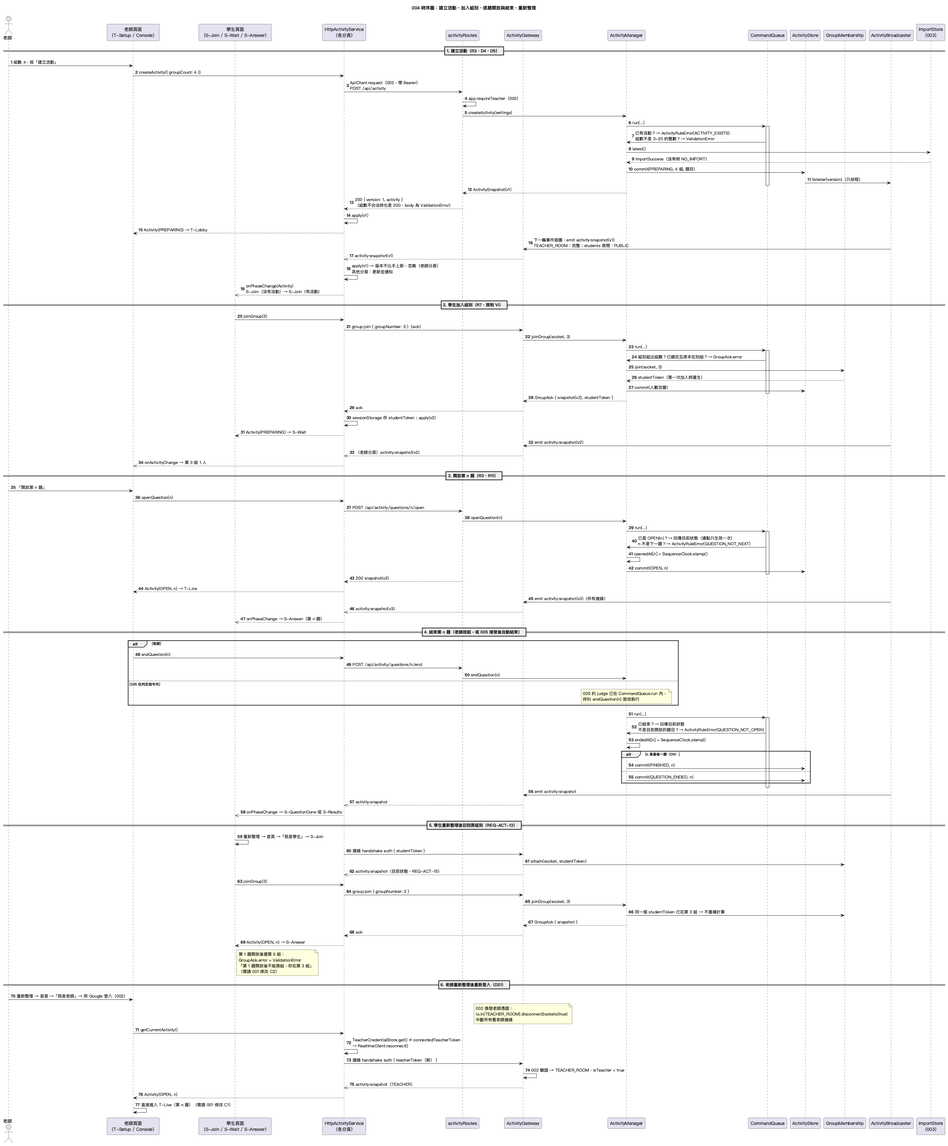
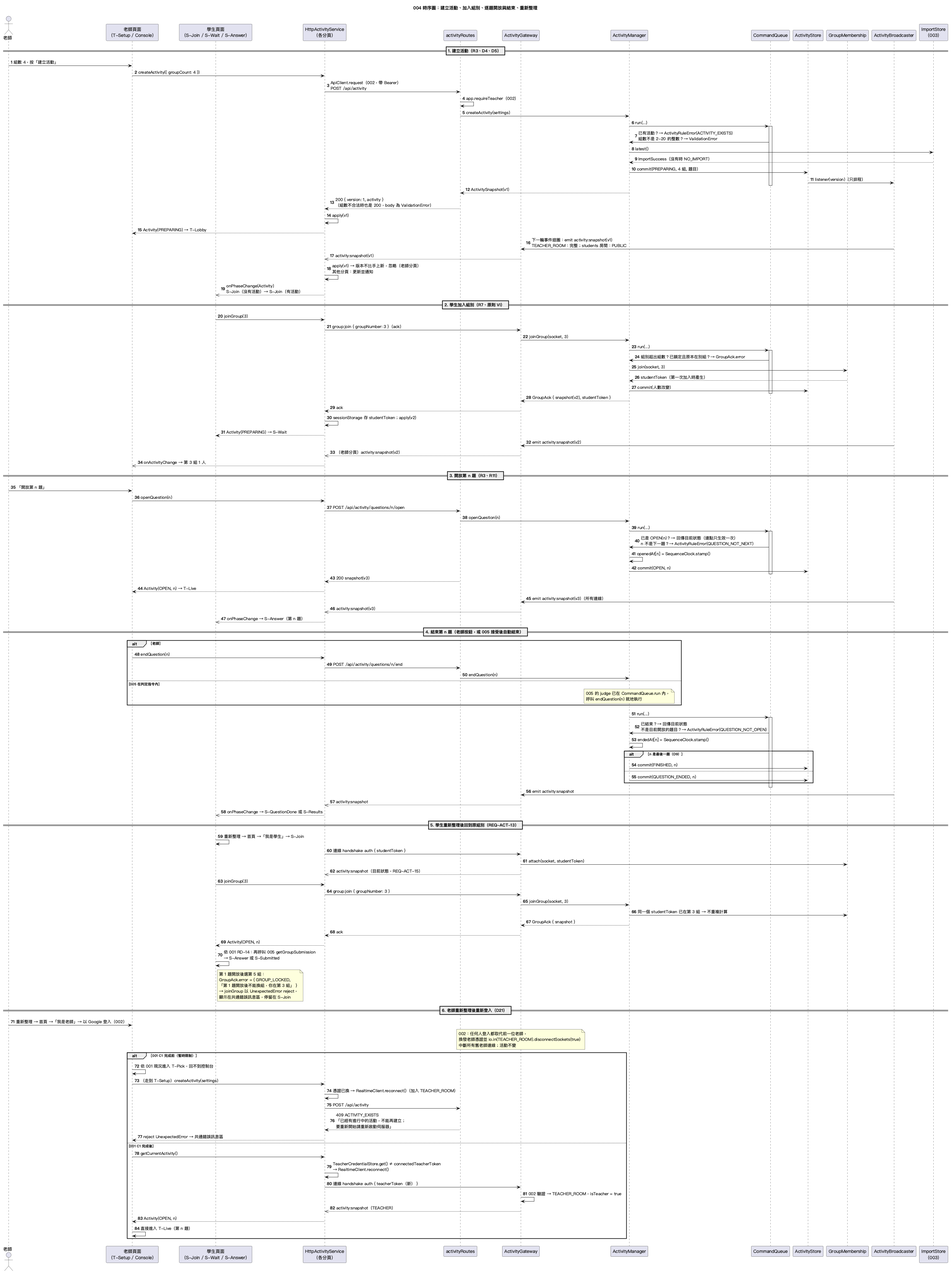
spec(004): 依 spec 修改同步設計、任務與圖表
spec 配合 001 最終版修改後，plan、research、data-model、contracts、quickstart、tasks 與三張圖也要跟著改，否則實作會照舊的介面做。重跑 analyze 沒有 CRITICAL、HIGH、MEDIUM。

diff --git a/specs/004-buzzer-session/analyze-report.md b/specs/004-buzzer-session/analyze-report.md
@@ -2,7 +2,7 @@
 
 **Date**: 2026-11-21 | **Artifacts**: `spec.md`、`plan.md`、`tasks.md`（另參考 `research.md`、`data-model.md`、`contracts/`、`diagrams/004-*.puml`、constitution 1.0.0）
 
-分析跑了三次。第 1 次找到的 CRITICAL 與 MEDIUM 已修正；第 2 次只剩 LOW。之後依主對話比對 002 交界的結果修改（見「第 3 次」），重跑後仍只有 LOW。
+分析跑了四次。第 1 次找到的 CRITICAL 與 MEDIUM 已修正；第 2 次只剩 LOW。之後依主對話比對 002 交界的結果修改（第 3 次），再配合 001 最終版（PR #10）修改（第 4 次），重跑後都只有 LOW。
 
 ## 第 1 次分析（已修正）
 
@@ -19,7 +19,7 @@
 
 | ID | Category | Severity | Location(s) | Summary | Recommendation |
 | --- | --- | --- | --- | --- | --- |
-| L1 | Dependency | LOW | tasks.md「依賴 001 的修改」；T028、T031、T034、T044、T050 | AC-01、AC-02、AC-12 的頁面呈現、AC-20 的學生頁面、AC-26、AC-27 需要 001 先完成 C1–C5；在那之前這些 e2e 以 `test.skip` 標記 | 已在 tasks 列出對應；請 001 負責人排入。伺服器與服務層的測試不受影響 |
+| L1 | Dependency | LOW | tasks.md「依賴 001 的修改」；T050 | （第 4 次更新）只剩 AC-26 需要 001 完成 C1（D21）；在那之前該 e2e 以 `test.skip` 標記，暫時限制（AC-32）現在就測 | 已在 PR #10 留言，001 實作時處理 |
 | L2 | Coverage | LOW | spec.md Edge Cases「複製分頁」 | 沒有專門的自動化測試 | 行為由 `GroupMembership` 的「同一 token 不重複計算」（T011）涵蓋，不另加測試 |
 | L3 | Organization | LOW | tasks.md T043 | logging 是跨 Story 的工作，放在 US3 | 放在 US3 是因為 US3 完成時所有事件都已存在；不影響執行順序 |
 | L4 | Organization | LOW | tasks.md T028 | 一個任務同時包含實作與 e2e 情境 | 兩者都很小且同屬 US1；可在實作時拆開 |
@@ -49,21 +49,46 @@
 
 **Unmapped Tasks:** 無。Setup 與 Foundational 的任務（T001–T022）對應到 REQ-ACT-12、14、15、17、18、19、20（見 tasks 追溯表）；T051–T053 對應原則 I、VIII。
 
+## 第 4 次分析（配合 001 最終版）
+
+依 `specs/001-ui-prototype/`（PR #10）與 `docs/feature-split.md` 最新版，以及使用者 2026-11-22 的決定，比對 spec、plan、research、data-model、contracts、quickstart、tasks 與三張圖。
+
+比對時發現、並已在本輪修正的不一致：
+
+| ID | Category | 原本的嚴重度 | Location(s) | 不一致 | 處理 |
+| --- | --- | --- | --- | --- | --- |
+| X1 | Inconsistency（與 001） | HIGH | spec「需請 001 修改」C2；data-model；contracts/activity-service.md；class 圖 | 004 假設 `joinGroup` 回傳 `Promise<Activity \| ValidationError>`，001 最終版仍是 `Promise<Activity>` | 改為以 `UnexpectedError(message)` reject，顯示在共通錯誤訊息區；`GroupAck.error` 改為 `{ code, message }`（`NO_ACTIVITY`、`NO_SUCH_GROUP`、`GROUP_LOCKED`）；AC-12、REQ-ACT-11、T031、T034、T044 同步；C2 刪除 |
+| X2 | Inconsistency（與 001） | MEDIUM | spec C5；tasks T044 | 結束最後一題直接 `FINISHED`、S-Join 依階段切換，001 最終版已完成，004 仍列為請 001 修改 | C5 刪除；AC-13、AC-14 改為依 001 RD-14（`OPEN` 時頁面再呼叫 005 的 `getGroupSubmission`）；時序圖第 5 段同步 |
+| X3 | Inconsistency（與 001） | MEDIUM | spec C3、C4；data-model `activityRules` | 組數範圍、預設值與說明文字，001 spec 已明文交給 004 定義，不需要請 001 修改 | C3、C4 刪除，改為「001 實作時照 004 的規則」；REQ-ACT-02、「說明文字」一節、Clarifications 同步 |
+| X4 | Inconsistency（與使用者決定） | HIGH | spec REQ-ACT-21、US4、SC-005；tasks T050 | D21 的 001 修改尚未完成，004 的 AC-26 現在無法成立，也沒有寫明修改前的行為 | 改為暫時限制：活動繼續；老師重新登入後進入 T-Pick；再建立活動回 `ACTIVITY_EXISTS`「已經有進行中的活動，不能再建立；要重新開始請重新啟動伺服器」（新增 AC-32）；AC-26 標明「001 完成 C1 後」；時序圖第 6 段分成兩個 alt |
+| X5 | Inconsistency（與 001、002） | MEDIUM | spec Assumptions、REQ-ACT-09；research RA-07；contracts/socket-events.md | 老師規則仍寫「同一個帳號重新登入」；001 最終版與 002 為「以 Google 登入的人就是老師，任何人登入都取代前一位老師」 | 全部改寫；被取代的老師分頁退回一般連線（RA-07 原本的機制已涵蓋） |
+| X6 | Inconsistency（與 001） | MEDIUM | research RA-09、RA-07；contracts/activity-service.md | 001 最終版的 T-Lobby 不呼叫 `getCurrentActivity`，004 原本以「登入後第一個呼叫是 `getCurrentActivity`」保證老師版快照 | 改為：老師登入後第一個活動指令是 `createActivity`，執行前已依憑證重新連線；`getCurrentActivity` 的呼叫者只寫 Main、S-Join |
+| X7 | Coverage（模擬橋接） | MEDIUM | research RA-14；tasks T042 | 001 最終版的模擬 `judge(ACCEPTED)` 只結束模擬的題目，接上 004 後伺服器題目仍開著，老師無法開放下一題 | 組合根包一層 `judge`：結果不是 `OPEN` 時呼叫真正的 `endQuestion(q)`，以其回傳的活動取代 `JudgeOutcome.activity` |
+
+重跑結果（第 4 次）：
+
+| ID | Category | Severity | Location(s) | Summary | Recommendation |
+| --- | --- | --- | --- | --- | --- |
+| L8 | Dependency | LOW | spec REQ-ACT-02、AC-01、AC-02；tasks T028 | 組數預設 6 與「−」「+」不可用由 001 實作 T-Setup 時照 004 的常數完成；001 spec 已交給 004，但 001 tasks T064 沒有寫出要引用 `activityRules` | 不改 001；004 的 e2e（T028）會在 001 實作後驗證，結果不符時回報 001 |
+| L9 | UX | LOW | spec REQ-ACT-21、AC-32 | D21 暫時限制期間，老師重新整理後沒有人能控制這場活動，只能重新啟動伺服器 | 使用者 2026-11-22 已接受為暫時限制；001 完成 C1 後解除 |
+
+其餘 L2–L7 不變。檢查項目：所有檔案中已沒有「需請 001 修改」C2–C5、`Promise<Activity | ValidationError>` 形式的 `joinGroup`、「同一個帳號重新登入」的老師規則、T-Lobby 呼叫 `getCurrentActivity` 的描述；`data-model.md` 與 `diagrams/004-class.puml`（`joinGroup` 簽章、`GroupAck.error`）一致；三張 PNG 已重新產生且未被截掉（最大寬度 3017 px）。
+
 ## Coverage Summary
 
 | Requirement Key | Has Task? | Task IDs | Notes |
 | --- | --- | --- | --- |
 | REQ-ACT-01 | Yes | T023、T024、T026、T027 | |
-| REQ-ACT-02 | Yes | T002、T023、T024、T026、T028 | 頁面部分依賴 001 C3 |
+| REQ-ACT-02 | Yes | T002、T023、T024、T026、T028 | 頁面部分由 001 實作時照 004 的常數（L8） |
 | REQ-ACT-03 | Yes | T023、T026 | |
 | REQ-ACT-04 | Yes | T023、T026 | |
 | REQ-ACT-05 | Yes | T035–T037、T039、T040 | |
-| REQ-ACT-06 | Yes | T035、T036、T039、T044 | 學生頁面依賴 001 C5 |
+| REQ-ACT-06 | Yes | T035、T036、T039、T044 | 學生頁面切換 001 最終版已完成 |
 | REQ-ACT-07 | Yes | T035、T039 | |
 | REQ-ACT-08 | Yes | T005、T006、T018、T035、T039 | |
 | REQ-ACT-09 | Yes | T024、T027、T037、T040 | |
 | REQ-ACT-10 | Yes | T011、T012、T029、T030、T032、T033 | |
-| REQ-ACT-11 | Yes | T029–T034 | `ValidationError` 依賴 001 C2 |
+| REQ-ACT-11 | Yes | T029–T034 | 被拒絕以 `UnexpectedError` 顯示（第 4 次 X1） |
 | REQ-ACT-12 | Yes | T011、T012、T017、T018、T030 | |
 | REQ-ACT-13 | Yes | T011、T012、T020、T030、T034、T044 | |
 | REQ-ACT-14 | Yes | T009、T010、T016、T019、T021、T022、T038 | |
@@ -73,22 +98,22 @@
 | REQ-ACT-18 | Yes | T007、T008、T035、T039 | AC-30 |
 | REQ-ACT-19 | Yes | T013、T014、T016、T017、T030、T044 | |
 | REQ-ACT-20 | Yes | T018、T019、T020、T044 | AC-31 |
-| REQ-ACT-21 | Yes | T048–T050 | 頁面依賴 001 C1 |
+| REQ-ACT-21 | Yes | T023、T048–T050 | AC-32（暫時限制）現在測；AC-26 依賴 001 C1 |
 | REQ-ACT-NFR-01 | Yes | T016、T045–T047 | |
 | REQ-ACT-NFR-02 | Yes | T032、T045–T047 | |
 | SC-001～SC-006 | Yes | T024、T030、T037、T044–T047、T050、T051 | |
 
 ## Metrics
 
-- Total Requirements：23（REQ-ACT-01～21、NFR-01～02）；Acceptance Criteria：31（AC-01～31）；Success Criteria：6
+- Total Requirements：23（REQ-ACT-01～21、NFR-01～02）；Acceptance Criteria：32（AC-01～32）；Success Criteria：6
 - Total Tasks：53
 - Coverage：100%（23 / 23 條需求至少有一個任務與一個測試任務）
 - Ambiguity Count：0（第 1 次 1 個，已修正）
 - Duplication Count：0
 - Critical Issues Count：0（第 1 次 1 個，已修正）
-- 各嚴重度（第 3 次）：CRITICAL 0、HIGH 0、MEDIUM 0、LOW 7（L1–L7）
+- 各嚴重度（第 4 次）：CRITICAL 0、HIGH 0、MEDIUM 0、LOW 9（L1–L9）
 
 ## Next Actions
 
 - 沒有 CRITICAL、HIGH、MEDIUM，可以在人工審查（原則 X）後進入 `/speckit-implement`。
-- 實作前請 001 負責人處理 spec「需請 001 修改」C1–C5；在那之前 US1–US3 的伺服器與服務層可先實作，受影響的 e2e 先 skip（L1）。
+- 「需請 001 修改」只剩 C1（D21），已在 PR #10 留言；在那之前 AC-26 的 e2e 先 skip，其餘都可以實作與測試（L1）。

diff --git a/specs/004-buzzer-session/research.md b/specs/004-buzzer-session/research.md
@@ -57,9 +57,9 @@
   - Socket.IO 伺服器由 002 建立（`app.io`，002 `contracts/socket-handshake.md`）。handshake 時 002 驗證 `auth.teacherToken`：有效 → 加入 `TEACHER_ROOM`（`'teacher'`）、`socket.data.isTeacher = true`；沒有帶 → 一般連線；錯誤或已作廢 → 拒絕連線（`connect_error`，`err.message === 'UNAUTHORIZED'`）。
   - 004 在 `connection` 時把 `socket.data.isTeacher` 為 false 的連線加入 `students` 房間；老師連線已由 002 放進 `TEACHER_ROOM`，004 不再處理。
   - 前端 `RealtimeClient` 的 `auth` 每次連線時以 002 的 `TeacherCredentialStore.get()` 讀老師憑證，並記下這次用的憑證（`connectedTeacherToken`）。
-  - 老師重新登入時 002 以 `io.in(TEACHER_ROOM).disconnectSockets(true)` 中斷所有舊老師連線。這是伺服器主動中斷，Socket.IO 用戶端不會自動重連，所以 `RealtimeClient` 收到 `disconnect` 原因為 `io server disconnect` 時呼叫 `reconnect()`，以當下的憑證重新 handshake。
+  - 任何人以 Google 登入時，002 讓新登入者取代前一位老師（舊憑證作廢），並以 `io.in(TEACHER_ROOM).disconnectSockets(true)` 中斷所有舊老師連線。這是伺服器主動中斷，Socket.IO 用戶端不會自動重連，所以 `RealtimeClient` 收到 `disconnect` 原因為 `io server disconnect` 時呼叫 `reconnect()`，以當下的憑證重新 handshake。
   - 收到 `connect_error` `UNAUTHORIZED`：若 `TeacherCredentialStore.get()` 已換成別的憑證，以新憑證重連；否則記下被拒的憑證（`rejectedTeacherToken`），之後的 handshake 不再帶它，以一般連線重連。這個分頁之後只收學生版快照；它的老師指令會被 002 的 `ApiClient` 回「老師登入已失效，請回首頁重新登入」。
-  - `getCurrentActivity` 與四個老師指令執行前，若 `TeacherCredentialStore.get()` 與 `connectedTeacherToken` 不同，先 `reconnect()`。
+  - `getCurrentActivity` 與四個老師指令執行前，若 `TeacherCredentialStore.get()` 與 `connectedTeacherToken` 不同，先 `reconnect()`。依 001 最終版，老師登入後的第一個活動指令是 T-Setup 的 `createActivity`（T-Lobby 不呼叫 `getCurrentActivity`），所以重新連線發生在建立活動之前，T-Lobby 之後的 `onActivityChange` 一定是老師版的快照。
 - **Rationale**: 老師與學生的連線收到的內容只差在 `spreadsheet.id`（RA-08）；老師的指令仍走 REST，連線只用來收推送。
 - **Alternatives considered**: 所有人都在同一個房間收同一份（學生會拿到試算表 ID）。
 
@@ -72,7 +72,7 @@
 ## RA-09 `getCurrentActivity` 與兩種通知（001 介面）
 
 - **Decision**:
-  - `getCurrentActivity()`：連線後伺服器立即送一份目前狀態（REQ-ACT-15）；手上已有快照時直接回傳，否則等下一份 `activity:snapshot`。5 秒內沒收到以 `UnexpectedError`「連不上伺服器，請確認伺服器已啟動」 reject。不另設 `GET` 端點。
+  - `getCurrentActivity()`：連線後伺服器立即送一份目前狀態（REQ-ACT-15）；手上已有快照時直接回傳，否則等下一份 `activity:snapshot`。5 秒內沒收到以 `UnexpectedError`「連不上伺服器，請確認伺服器已啟動」 reject。不另設 `GET` 端點。依 001 最終版，只有 Main 與 S-Join 載入時呼叫；T-Lobby 用 `createActivity`、`updateSettings` 的回傳值，之後靠 `onActivityChange`。
   - `onActivityChange(listener)`：每採用一份新版本就通知（`activity` 不是 `null` 時）。
   - `onPhaseChange(listener)`：只在 `phase`、`currentQuestion` 或 `groupCount` 與上一次通知的不同時（含從沒有活動變成有活動）通知。
 - **Rationale**: 狀態只有一個來源（Socket.IO 推送），初次載入也走同一條，不會出現 GET 與推送不一致。`onPhaseChange` 不因人數改變而通知，避免作答頁因為別組有人加入就被重畫；`groupCount` 改變只發生在準備中，讓選組頁能更新組別清單。
@@ -89,11 +89,11 @@
   | 規則不允許（已有活動、沒有匯入、不是下一題…） | `409 { code, message }`（`ErrorBody`） | `ApiClient` 的 `ApiError` 直接 reject（符合 `UnexpectedError`） |
   | 沒有老師身分 | `401 UNAUTHORIZED`（002 的 `app.requireTeacher`） | `ApiClient` 以「老師登入已失效，請回首頁重新登入」reject（002 處理） |
   | 網路錯誤 | — | `ApiClient` 以 `ApiError`（`code: "NETWORK"`）「連不上伺服器，請確認伺服器已啟動」 reject |
-  | `group:join` 不允許 | ack `{ snapshot, error: ValidationError }`（`field: "groupNumber"`） | 回傳 `ValidationError`（需請 001 修改 C2） |
-  | `group:leave` 在第 1 題開放後 | ack `{ snapshot, error }` | 以 `UnexpectedError(error.message)` reject |
+  | `group:join` 不允許 | ack `{ snapshot, error: { code, message } }` | 以 `UnexpectedError(error.message)` reject（001 的 `joinGroup` 回傳 `Promise<Activity>`，沒有預期失敗的回傳值） |
+  | `group:leave` 在第 1 題開放後 | ack `{ snapshot, error: { code, message } }` | 以 `UnexpectedError(error.message)` reject |
   | ack 5 秒沒回 | — | 以 `UnexpectedError`「連不上伺服器，請確認伺服器已啟動」 reject（與 002 的訊息相同） |
 
-- **Rationale**: 001 規定預期中的失敗用回傳值、其他用 `UnexpectedError`；002 規定錯誤回應一律是 `ErrorBody { code, message }`、前端一律經 `ApiClient`，預期中的錯誤由各服務辨識後轉成回傳值。`ApiClient` 遇到非 2xx 只保留 `{ status, code, message }`，`ValidationError` 的 `field` 會遺失，所以預期中的失敗一律以 `200` 回傳、前端用型別判斷函式區分；非 2xx 只用於非預期錯誤與 401。`409` 的情況頁面流程不會發生（按鈕只在正確的階段出現），只有連點、兩個老師分頁或伺服器重啟時才會出現，顯示在共通錯誤訊息區即可。`group:leave` 被拒絕只會發生在「按下重新選擇的同時老師開放第 1 題」，頁面隨後會被階段推到作答頁，所以不另外要求 001 修改。
+- **Rationale**: 001 規定預期中的失敗用回傳值、其他用 `UnexpectedError`；002 規定錯誤回應一律是 `ErrorBody { code, message }`、前端一律經 `ApiClient`，預期中的錯誤由各服務辨識後轉成回傳值。`ApiClient` 遇到非 2xx 只保留 `{ status, code, message }`，`ValidationError` 的 `field` 會遺失，所以預期中的失敗一律以 `200` 回傳、前端用型別判斷函式區分；非 2xx 只用於非預期錯誤與 401。`409` 的情況頁面流程不會發生（按鈕只在正確的階段出現），只有連點、兩個老師分頁、伺服器重啟，或 D21 暫時限制下老師重新登入後又按「建立活動」（`ACTIVITY_EXISTS`）時才會出現，顯示在共通錯誤訊息區即可。`group:join`、`group:leave` 被拒絕在正常流程中很少發生（選組頁只列出存在的組別；換組被拒只發生在重新整理後選錯組，或按下重新選擇的同時老師開放第 1 題），以 `UnexpectedError` 顯示在共通錯誤訊息區即可，配合 001 的介面，不請 001 修改（使用者 2026-11-22 決定）。
 - **Alternatives considered**: 把 409 也做成 `ValidationError`（沒有對應的欄位可以顯示）。
 
 ## RA-11 只用 WebSocket（001 D22）
@@ -114,7 +114,8 @@
 ## RA-14 換掉模擬實作時，其他模擬實作怎麼辦
 
 - **Decision**: `createServiceRegistry()` 把 `activity` 改綁 `HttpActivityService`，移除 `phaseControl` 與 `activityValidationControl`。005、006 還沒完成前，`MockSubmissionService` 與 `MockResultService` 仍讀 `MockSession.teacherActivity` 與 `joinedGroup`；組合根在 `submission` 或 `result` 仍是模擬實作時，把 `HttpActivityService` 的活動（`onActivityChange`）與本分頁加入的組別（`joinGroup`、`leaveGroup` 的結果）寫進 `MockSession`。這段橋接只在組合根，005、006 換掉模擬實作後刪除。
-- **Rationale**: 001 plan「替換模擬實作的方式」只允許改組合根；不橋接的話，004 一換上去，學生的「整組送出」就因為 `joinedGroup` 是空的而無法展示。
+  另外，模擬的 `judge(ACCEPTED)` 只改 `MockSession.teacherActivity`（001 M4），伺服器上的題目不會結束；組合根包一層 `judge`：回傳的 `JudgeOutcome.activity` 不是 `OPEN` 時，呼叫 `HttpActivityService.endQuestion(q)`，並以它回傳的活動取代 `JudgeOutcome.activity`，讓老師端的切換與伺服器一致。學生分頁的「模擬：接受」只推進模擬的階段，不影響伺服器；接上 004 後學生頁面改由真正的階段推動，要等老師結束題目才切換。
+- **Rationale**: 001 plan「替換模擬實作的方式」只允許改組合根；不橋接的話，004 一換上去，學生的「整組送出」就因為 `joinedGroup` 是空的而無法展示，老師接受後也會因為伺服器上的題目還開著而無法開放下一題。
 - **Alternatives considered**: 讓 `HttpActivityService` 直接寫 `MockSession`（真正的實作依賴模擬實作，違反原則 III）。
 
 ## RA-15 壓力測試（NFR-01、NFR-02、SC-002）

diff --git a/specs/004-buzzer-session/data-model.md b/specs/004-buzzer-session/data-model.md
@@ -2,7 +2,7 @@
 
 **Feature**: `004-buzzer-session` | **Date**: 2026-11-21 | **Blueprint**: [`diagrams/004-class.puml`](../../diagrams/004-class.puml)
 
-類別名稱、欄位、方法與關聯和 `diagrams/004-class.puml` 一一對應。001 的實體（`Activity`、`Group`、`ActivityPhase`、`ActivitySettings`、`ValidationError`、`UnexpectedError`、`Spreadsheet`、`Question`）照 001 的 [data-model.md](../001-ui-prototype/data-model.md)，004 不改欄位；唯一的介面修改是 `joinGroup` 的回傳型別（spec「需請 001 修改」C2）。
+類別名稱、欄位、方法與關聯和 `diagrams/004-class.puml` 一一對應。001 的實體（`Activity`、`Group`、`ActivityPhase`、`ActivitySettings`、`ValidationError`、`UnexpectedError`、`Spreadsheet`、`Question`）照 001 的 [data-model.md](../001-ui-prototype/data-model.md)，004 不改欄位，也不改介面簽章（`joinGroup` 照 001 回傳 `Promise<Activity>`，預期中的失敗以 `UnexpectedError` reject）。
 
 ## 1. 共用型別（`shared/src/`，004 新增）
 
@@ -10,16 +10,16 @@
 
 | 常數 | 值 | 用途 |
 | --- | --- | --- |
-| `GROUP_COUNT_MIN` | 2 | T-Setup「−」何時不可用（C3）；伺服器驗證（REQ-ACT-02） |
-| `GROUP_COUNT_MAX` | 20 | T-Setup「+」何時不可用（C3）；伺服器驗證 |
-| `GROUP_COUNT_DEFAULT` | 6 | T-Setup 建立模式的初始值（C3） |
+| `GROUP_COUNT_MIN` | 2 | T-Setup「−」何時不可用（001 實作 T-Setup 時引用，001 spec US2 AC-7 已交給 004）；伺服器驗證（REQ-ACT-02） |
+| `GROUP_COUNT_MAX` | 20 | T-Setup「+」何時不可用（同上）；伺服器驗證 |
+| `GROUP_COUNT_DEFAULT` | 6 | T-Setup 建立模式的初始值（001 spec FR-023 把預設值交給 004） |
 
 ### `activitySync.ts`
 
 | 型別 | 欄位 | 規則 |
 | --- | --- | --- |
 | `ActivitySnapshot` | `version: number`、`activity: Activity \| null` | `version` 來自 `ActivityStore`，從 1 開始、每次 commit 加 1；`activity` 依對象由 `ActivityView` 產生；沒有活動時為 `null`、`version` 為 0 |
-| `GroupAck` | `snapshot: ActivitySnapshot`、`studentToken?: string`、`error?: ValidationError` | `group:join`、`group:leave` 的 ack。成功加入時有 `studentToken`；被拒絕時有 `error`（`field: "groupNumber"`），`snapshot` 仍是目前狀態 |
+| `GroupAck` | `snapshot: ActivitySnapshot`、`studentToken?: string`、`error?: { code: string; message: string }` | `group:join`、`group:leave` 的 ack。成功加入時有 `studentToken`；被拒絕時有 `error`（見「加入與離開組別被拒絕」），`snapshot` 仍是目前狀態；前端以 `UnexpectedError(error.message)` reject |
 
 ## 2. 伺服器（`server/src/activity/`）
 
@@ -104,7 +104,7 @@ QUESTION_ENDED(n) --openQuestion(n+1)--> OPEN(n+1)
 | `endQuestion(n)` | `ActivitySnapshot` | 沒有活動 → `NO_ACTIVITY`；依「狀態轉換」；不允許 → `QUESTION_NOT_OPEN`。005 可在自己的 `CommandQueue.run` 內呼叫 |
 | `joinGroup(socket, n)` | `GroupAck` | 見下方「組別規則」 |
 | `leaveGroup(socket)` | `GroupAck` | 沒加入 → 成功（不變）；已鎖定 → `error` |
-| `snapshot(audience)` | `ActivitySnapshot` | 目前狀態，給連線時第一次推送 |
+| `snapshot(audience)` | `ActivitySnapshot` | 目前狀態，給連線時第一次推送；也給 005 組 `JudgeOutcome.activity`。只讀取、沒有副作用，可以在 `CommandQueue.run` 內呼叫 |
 
 `createActivity`～`leaveGroup` 都在 `CommandQueue.run` 內執行；回傳的快照是 `Audience.TEACHER`（REST）或 `Audience.PUBLIC`（學生的 ack）。
 
@@ -113,31 +113,38 @@ QUESTION_ENDED(n) --openQuestion(n+1)--> OPEN(n+1)
 | `code` | `message` |
 | --- | --- |
 | `NO_IMPORT` | 請先匯入學習單 |
-| `ACTIVITY_EXISTS` | 已經有活動，不能再建立 |
+| `ACTIVITY_EXISTS` | 已經有進行中的活動，不能再建立；要重新開始請重新啟動伺服器 |
 | `NO_ACTIVITY` | 目前沒有活動 |
 | `SETTINGS_LOCKED` | 第 1 題開放後不能修改設定 |
 | `QUESTION_NOT_NEXT` | 現在不能開放第 n 題 |
 | `QUESTION_NOT_OPEN` | 第 n 題目前沒有開放，不能結束 |
 
-### `ValidationError` 的內容（REST 以 `200` 回傳 `ValidationError` 本身；ack 的 `error`）
+### `ValidationError` 的內容（REST 以 `200` 回傳 `ValidationError` 本身）
 
 | `field` | `message` | 條件 |
 | --- | --- | --- |
 | `groupCount` | 組數必須是 2 到 20 之間的整數 | 不是整數，或不在 2–20 |
 | `groupCount` | 第 n 組已有學生加入，組數不能少於 n | 修改設定時小於 `highestOccupiedGroup()` |
-| `groupNumber` | 目前沒有活動 | 加入時沒有活動 |
-| `groupNumber` | 沒有第 n 組 | 不是 1 到 `groupCount` 的整數 |
-| `groupNumber` | 第 1 題開放後不能換組，你在第 m 組 | 已鎖定且這條連線已在第 m 組（m ≠ n）；離開組別時同樣訊息 |
+
+### 加入與離開組別被拒絕（`GroupAck.error`，前端以 `UnexpectedError` reject）
+
+001 的 `joinGroup` 回傳 `Promise<Activity>`，沒有預期失敗的回傳值，所以這些拒絕以 `UnexpectedError(message)` 顯示在選組頁或等待開放頁的共通錯誤訊息區（001 FR-009）。
+
+| `code` | `message` | 條件 |
+| --- | --- | --- |
+| `NO_ACTIVITY` | 目前沒有活動 | 加入時沒有活動 |
+| `NO_SUCH_GROUP` | 沒有第 n 組 | 不是 1 到 `groupCount` 的整數 |
+| `GROUP_LOCKED` | 第 1 題開放後不能換組，你在第 m 組 | 已鎖定且這條連線已在第 m 組（m ≠ n）；離開組別時同樣訊息 |
 
 ### 組別規則（`joinGroup`）
 
 ```text
-沒有活動                         → error「目前沒有活動」
-n 不是 1..groupCount 的整數       → error「沒有第 n 組」
+沒有活動                         → error NO_ACTIVITY「目前沒有活動」
+n 不是 1..groupCount 的整數       → error NO_SUCH_GROUP「沒有第 n 組」
 這條連線已在第 n 組               → 成功，不改變人數（重新整理後選回原組）
 這條連線已在第 m 組（m ≠ n）：
     PREPARING                     → 從第 m 組移到第 n 組
-    其他階段                       → error「第 1 題開放後不能換組，你在第 m 組」
+    其他階段                       → error GROUP_LOCKED「第 1 題開放後不能換組，你在第 m 組」
 這條連線還沒加入                  → 加入第 n 組（任何階段都可以）
 ```
 

diff --git a/specs/004-buzzer-session/contracts/activity-service.md b/specs/004-buzzer-session/contracts/activity-service.md
@@ -1,6 +1,6 @@
 # Contract: `HttpActivityService`（001 `ActivityService` 的真正實作）
 
-簽章照 001 的 [contracts/service-interfaces.md](../../001-ui-prototype/contracts/service-interfaces.md)，唯一例外是 `joinGroup` 改為 `Promise<Activity | ValidationError>`（spec「需請 001 修改」C2）。老師指令一律經 002 的 `ApiClient`，學生事件與推送經 004 的 `RealtimeClient`。所有 `UnexpectedError` 的訊息見 research RA-10。
+簽章照 001 最終版的 [contracts/service-interfaces.md](../../001-ui-prototype/contracts/service-interfaces.md)，不改。老師指令一律經 002 的 `ApiClient`，學生事件與推送經 004 的 `RealtimeClient`。所有 `UnexpectedError` 的訊息見 research RA-10。
 
 | 方法 | 做什麼 | 回傳／通知 |
 | --- | --- | --- |
@@ -8,9 +8,9 @@
 | `updateSettings(settings)` | `ApiClient.request("PUT", "/api/activity/settings", settings)` | 同上 |
 | `openQuestion(n)` | `ApiClient.request("POST", "/api/activity/questions/{n}/open")` | 成功：`apply` 後回傳 `Activity`；`ApiError`：原樣 reject |
 | `endQuestion(n)` | `ApiClient.request("POST", "/api/activity/questions/{n}/end")` | 同上；回傳的 `phase` 是 `QUESTION_ENDED` 或 `FINISHED` |
-| `joinGroup(n)` | `RealtimeClient.emitWithAck("group:join", { groupNumber: n })` | 有 `error`：回傳 `ValidationError`；否則存 `studentToken`、`apply(snapshot)`，回傳 `snapshot.activity` |
+| `joinGroup(n)` | `RealtimeClient.emitWithAck("group:join", { groupNumber: n })` | 有 `error`：`apply(snapshot)` 後以 `UnexpectedError(error.message)` reject（頁面在共通錯誤訊息區顯示，停留在 S-Join）；否則存 `studentToken`、`apply(snapshot)`，回傳 `snapshot.activity`。頁面依 `phase` 切換：`PREPARING` → S-Wait、`OPEN` → 頁面再呼叫 005 的 `getGroupSubmission`、`QUESTION_ENDED` → S-QuestionDone、`FINISHED` → S-Results（001 RD-14） |
 | `leaveGroup()` | `RealtimeClient.emitWithAck("group:leave", {})` | 有 `error`：reject `UnexpectedError(error.message)`；否則 `apply(snapshot)` 後 resolve |
-| `getCurrentActivity()` | 不送請求；來自 `RealtimeClient.on("activity:snapshot", …)` | 手上有快照：回傳其 `activity`（可能是 `null`）；沒有：等下一份 `activity:snapshot`，5 秒逾時 reject |
+| `getCurrentActivity()` | 不送請求；來自 `RealtimeClient.on("activity:snapshot", …)` | 手上有快照：回傳其 `activity`（可能是 `null`）；沒有：等下一份 `activity:snapshot`，5 秒逾時 reject。呼叫者：Main、S-Join（T-Lobby 不呼叫，001 最終版） |
 | `onPhaseChange(listener)` | 訂閱 | 採用新快照、`activity` 不是 `null`，且 `phase:currentQuestion:groupCount` 與上一次通知的不同時呼叫 |
 | `onActivityChange(listener)` | 訂閱 | 採用新快照且 `activity` 不是 `null` 時都呼叫 |
 
@@ -28,9 +28,9 @@ return false
 ```
 
 - 連線成功（含重新連線）時 `latest = null`，下一份快照一定被採用（伺服器重啟後版本號重新開始）。
-- 老師登入後連線要改以老師身分加入 `TEACHER_ROOM`：`RealtimeClient` 記住目前連線用的 `connectedTeacherToken`；`getCurrentActivity()` 與四個老師指令執行前，若 `TeacherCredentialStore.get()` 與它不同，先 `reconnect()`（`latest` 因此清為 `null`），再等新的快照。老師登入後頁面第一個呼叫就是 `getCurrentActivity()`（001 C1），所以控制台一定收到老師版的快照。
-- 002 換發老師憑證時中斷舊老師連線（`io server disconnect`），`RealtimeClient` 自動重連；被 `UNAUTHORIZED` 拒絕時的處理見 research RA-07。
+- 老師登入後連線要改以老師身分加入 `TEACHER_ROOM`：`RealtimeClient` 記住目前連線用的 `connectedTeacherToken`；`getCurrentActivity()` 與四個老師指令執行前，若 `TeacherCredentialStore.get()` 與它不同，先 `reconnect()`（`latest` 因此清為 `null`），再等新的快照。目前老師登入後的第一個活動指令是 T-Setup 的 `createActivity`；001 完成 C1 後則是 `getCurrentActivity()`。兩種情況都會先重新連線，所以控制台收到的一定是老師版的快照。
+- 任何人登入時 002 換發老師憑證、中斷舊老師連線（`io server disconnect`），`RealtimeClient` 自動重連；被 `UNAUTHORIZED` 拒絕時的處理見 research RA-07。
 
 ## 頁面依回傳值切換
 
-頁面切換不在本契約；依 001 spec「頁面與按鈕」與「階段推動的切換」，以及 spec「需請 001 修改」C1、C2、C5。
+頁面切換不在本契約；依 001 spec「頁面與按鈕」與「階段推動的切換」，以及 001 research RD-14（加入後依階段切換）。老師登入後依階段回到控制台是 spec「需請 001 修改」C1。

diff --git a/specs/004-buzzer-session/plan.md b/specs/004-buzzer-session/plan.md
@@ -6,7 +6,7 @@
 
 ## Summary
 
-004 在伺服器建立唯一權威的活動狀態（`ActivityStore`），老師以 REST 指令建立活動、修改組數、逐題開放與結束；學生以 Socket.IO 連線加入組別，伺服器依連線記住組別（`GroupMembership`）。所有改變狀態的操作在同一條 `CommandQueue` 中以同步程式碼逐一處理；每次改變後 `ActivityBroadcaster` 把帶版本號的完整快照推送給所有連線，前端只採用較新的版本。前端新增 `HttpActivityService` 實作 001 的 `ActivityService`，只改 `createServiceRegistry()` 的綁定，頁面不改（需要 001 修改的地方列在 spec「需請 001 修改」C1–C5）。
+004 在伺服器建立唯一權威的活動狀態（`ActivityStore`），老師以 REST 指令建立活動、修改組數、逐題開放與結束；學生以 Socket.IO 連線加入組別，伺服器依連線記住組別（`GroupMembership`）。所有改變狀態的操作在同一條 `CommandQueue` 中以同步程式碼逐一處理；每次改變後 `ActivityBroadcaster` 把帶版本號的完整快照推送給所有連線，前端只採用較新的版本。前端新增 `HttpActivityService` 實作 001 的 `ActivityService`，只改 `createServiceRegistry()` 的綁定，頁面不改。004 配合 001 最終版（PR #10）：`joinGroup` 的預期失敗以 `UnexpectedError` reject；仍需 001 修改的只有 D21（spec「需請 001 修改」C1），修改前是暫時限制。
 
 **以三張圖為藍圖**：本計畫的組件、類別、方法與呼叫順序一律依 [`diagrams/004-component.puml`](../../diagrams/004-component.puml)、[`diagrams/004-class.puml`](../../diagrams/004-class.puml)、[`diagrams/004-sequence.puml`](../../diagrams/004-sequence.puml)。下方「藍圖對照」把圖中每個組件與類別對應到一個檔案；[data-model.md](./data-model.md) 與類別圖一一對應；時序圖的 6 段各對應 User Story 與測試（見「時序圖與測試」）。
 
@@ -42,7 +42,7 @@
 | IV. 外部資料於執行期解析 | 題數、小題數取自 003 的匯入結果，不寫死 | 通過 |
 | V. 單一權威狀態來源 | 階段、題號、組數、人數只在 `ActivityStore` 與 `GroupMembership`；前端只採用推送或回應中的快照，以版本號丟掉舊的（RA-03）；`getCurrentActivity` 也來自同一個推送（RA-09） | 通過 |
 | VI. 最小揭露與機敏資料 | 學生版快照不含試算表 ID（RA-08）；組別由伺服器依連線判斷（RA-06）；學生身分在 `sessionStorage`，同瀏覽器其他分頁拿不到；`studentToken` 不進 log（RA-12）；004 不使用任何金鑰 | 通過 |
-| VII. 輸入驗證與錯誤訊息 | 組數、題號、組別編號都在伺服器驗證；`ValidationError` 指出欄位與原因；規則不允許時狀態不變（data-model） | 通過 |
+| VII. 輸入驗證與錯誤訊息 | 組數、題號、組別編號都在伺服器驗證；組數錯誤以 `ValidationError` 指出欄位與原因；加入組別被拒絕以 `UnexpectedError` 說明原因（001 的 `joinGroup` 沒有預期失敗的回傳值）；規則不允許時狀態不變（data-model） | 通過 |
 | VIII. 自動化測試與人工驗證 | 每個 User Story 有正常與邊界測試（tasks）；Google、匯入、老師驗證以替身取代；quickstart 列出 14 個人工情境；壓力測試 | 通過 |
 | IX. 程式碼規範 | 不新增頁面或元件；`RealtimeClient` 只寫一次，005、006 共用；英文命名 | 通過 |
 | X. 人工把關 | 本 plan 需人工審查後才能進入 tasks | 待審查 |
@@ -79,7 +79,7 @@
 | 3. 開放第 n 題 | US3 | `ActivityManager.test.ts`、`sync.test.ts` |
 | 4. 結束第 n 題（老師或 005） | US3 | `ActivityManager.test.ts`（含就地執行與重複要求） |
 | 5. 學生重新整理後回到原組別 | US2 | `ActivityGateway.test.ts`、e2e `activity-sync.spec.ts` |
-| 6. 老師重新整理後重新登入 | US4 | e2e `activity-sync.spec.ts`（需 001 C1 完成） |
+| 6. 老師重新整理後重新登入 | US4 | `teacherRefresh.test.ts`；e2e `activity-sync.spec.ts`（暫時限制的部分現在測；回到控制台的部分需 001 C1） |
 
 ## 替換模擬實作
 

diff --git a/specs/004-buzzer-session/contracts/socket-events.md b/specs/004-buzzer-session/contracts/socket-events.md
@@ -16,7 +16,7 @@
 | 有 `studentToken` | 004 | `GroupMembership.attach(socket, studentToken)`；伺服器不認得時忽略 |
 | 所有接受的連線 | 004 | 連上後立即送一次 `activity:snapshot`（`isTeacher` 決定 `Audience`）（REQ-ACT-15） |
 | 斷線 | 004 | `GroupMembership.detach(socket)`；人數不變 |
-| 老師重新登入 | 002 | `io.in(TEACHER_ROOM).disconnectSockets(true)` 中斷舊老師連線；`RealtimeClient` 以 `io server disconnect` 為訊號重新連線 |
+| 任何人以 Google 登入（取代前一位老師） | 002 | `io.in(TEACHER_ROOM).disconnectSockets(true)` 中斷舊老師連線；`RealtimeClient` 以 `io server disconnect` 為訊號重新連線 |
 
 ## 伺服器 → 前端
 
@@ -34,7 +34,7 @@
 | `group:leave` | `{}` | `GroupAck` | 第 1 題開放後回 `error` |
 
 - `GroupAck.snapshot` 一律是處理後的 `Audience.PUBLIC` 快照（被拒絕時是目前狀態）。
-- payload 不是物件、`groupNumber` 不是整數時，回 `error`（`field: "groupNumber"`，「沒有第 n 組」）。
+- 被拒絕時 `error` 為 `{ code, message }`（`NO_ACTIVITY`、`NO_SUCH_GROUP`、`GROUP_LOCKED`，data-model「加入與離開組別被拒絕」）；payload 不是物件、`groupNumber` 不是整數時回 `NO_SUCH_GROUP`。前端以 `UnexpectedError(error.message)` reject。
 - 老師連線也可以送這兩個事件，效果與學生相同；頁面流程不會這樣做。
 
 ## 給 005 的規則
